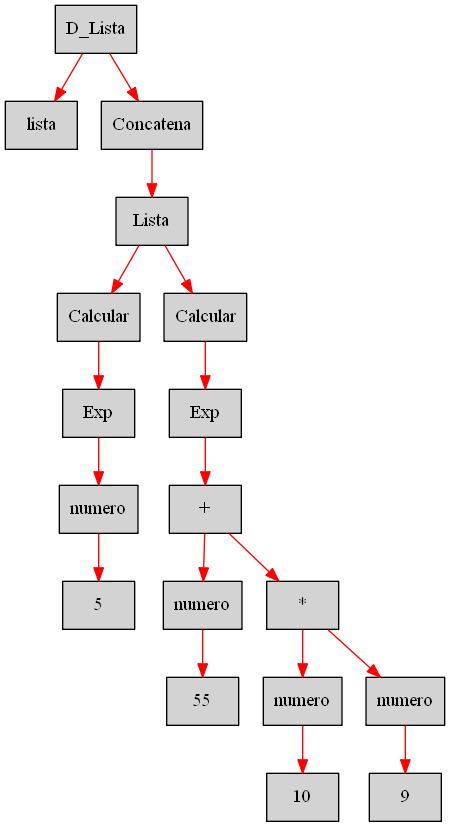
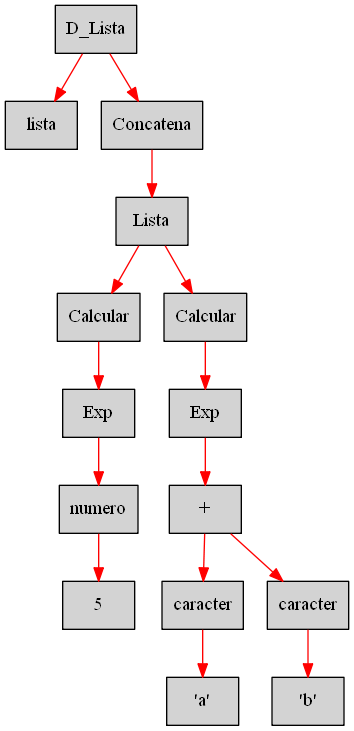
15 Marzo 2017 -- 02:23

diff --git a/src/Interprete/ExpresionHaskell.java b/src/Interprete/ExpresionHaskell.java
@@ -14,7 +14,121 @@ import Ast.Nodo;
 public class ExpresionHaskell {
     
     public Object Expresion(Nodo raiz){
-        
+        if(raiz.hijos.size()==1){
+            Nodo exp = raiz.hijos.get(0);
+            switch(raiz.valor.toString()){
+                
+                case "Exp":
+                    Valor ob1 = (Valor)Expresion(exp);
+                    return ob1;
+                
+                case "Calcular":
+                    Valor ob2 = (Valor)Expresion(exp);
+                    return ob2;
+                    
+                case "Decc":
+                break;
+                
+                case "Indice":
+                    break;
+
+                case "Length":
+                    break;
+
+                case "LlamaFunc":
+                    break;
+
+                case "Max":
+                    break;
+
+                case "Min":
+                    break;
+
+                case "Product":
+                    break;
+
+                case "Succ":
+                    break;
+
+                case "Sum":
+                    break;
+                    
+                case "numero":
+                    Valor v = new Valor(raiz.hijos.get(0).valor.toString(),"numero");
+                    return v;
+                    
+                case "cadena":
+                    Valor v1 = new Valor(raiz.hijos.get(0).valor.toString(),"cadena");
+                    return v1;
+                    
+                case "id":
+                    Valor v2 = new Valor(raiz.hijos.get(0).valor.toString(),"id");
+                    return v2;
+                    
+                case "caracter":
+                    Valor v3 = new Valor(raiz.hijos.get(0).valor.toString().replace("'", ""),"caracter");
+                    return v3;
+                    
+                case "porcentaje":
+                    break;
+                    
+                case "unario":
+                    break;
+                    
+            }
+        }else if(raiz.hijos.size()==2){
+            Valor izq;
+            Valor der;
+            Double resultado = 0.0;
+            switch(raiz.valor.toString()){
+                
+                case "+":
+                    izq = (Valor)Expresion(raiz.hijos.get(0)); 
+                    der = (Valor)Expresion(raiz.hijos.get(1));
+                    if(izq!=null || der != null){
+                        if(izq.tipo.equals(der.tipo)){
+                            if(izq.tipo.equals("numero")){
+                                Double num1 = (Double)izq.valor;
+                                Double num2 = (Double)der.valor;
+                                resultado = num1+num2;
+                                Valor v = new Valor(resultado,"numero");
+                                return v;
+                            }
+                            else if(izq.tipo.equals("caracter")){
+                                Object o = izq.valor.toString().codePointAt(0);
+                                Object m = der.valor.toString().codePointAt(0);
+                                Double num1 = new Double(o.toString());
+                                Double num2 = new Double(m.toString());
+                                resultado = num1+num2;
+                                Valor v = new Valor(resultado,"numero");
+                                return v;
+                            }
+                        }
+                    }
+                case "-":
+                    
+                    
+                case "*":
+                    
+                    
+                case "/":
+                    
+                    
+                case "mod":
+                    
+                    
+                case "sqrt":
+                    
+                    //resultado = Math.pow(der,1/izq);
+                   
+                    
+                case "pot":
+                   
+                    //resultado = Math.pow(izq,der);
+                    
+                    
+            }
+        }
         return null;
     }
 }

diff --git a/src/FunPropias/FuncionesPropiasHaskell.java b/src/FunPropias/FuncionesPropiasHaskell.java
@@ -15,7 +15,22 @@ import Ast.Nodo;
 
 public class FuncionesPropiasHaskell {
    
+    static Asc asc = new Asc();
+    static Calcular calcular = new Calcular();
     static Concatena concatena= new Concatena();
+    static Decc decc = new Decc();
+    static Desc desc = new Desc();
+    static Impr impr = new Impr();
+    static Indice indice = new Indice();
+    static Length length = new Length();
+    static LlamaFuncion llamaF = new LlamaFuncion();
+    static Max max = new Max();
+    static Min min = new Min();
+    static Par par = new Par();
+    static Product product = new Product();
+    static Revers revers = new Revers();
+    static Succ succ = new Succ();
+    static Sum sum = new Sum();
     
     public Object Recorrer(Nodo raiz){
         switch(raiz.valor.toString()){
@@ -27,8 +42,8 @@ public class FuncionesPropiasHaskell {
                 break;
                 
             case "Concatena":
-                Object val = concatena.Recorrer(raiz.hijos.get(0));
-                return val;
+                Object obj3 = concatena.Recorrer(raiz.hijos.get(0));
+                return obj3;
                 
             case "Decc":
                 break;

diff --git a/src/Simbolos/RecorreHaskell.java b/src/Simbolos/RecorreHaskell.java
@@ -63,15 +63,7 @@ public class RecorreHaskell {
                             
                             
                             
-                            /*else if(raiz.hijos.get(1).hijos.get(0).valor.toString()=="Lista"){
-                                else if(raiz.hijos.get(1).hijos.get(0).hijos.get(0).valor.toString()=="Calcular"){
-                                  for(Nodo c: raiz.hijos.get(1).hijos.get(0).hijos){
-                                        //aqui tengo que llevar la lista de caracteres
-                                        //exp.Expresion(c);
-                                        
-                                    }
-                                }
-                            }
+                            /*
                             else if(raiz.hijos.get(1).hijos.get(0).valor.toString()=="2Niveles"){
                                 
                             }*/

diff --git a/src/FunPropias/Concatena.java b/src/FunPropias/Concatena.java
@@ -7,6 +7,7 @@ package FunPropias;
 
 import Ast.Nodo;
 import Interprete.ExpresionHaskell;
+import Interprete.Valor;
 import java.util.ArrayList;
 
 /**
@@ -38,8 +39,8 @@ public class Concatena {
             ArrayList<Object> cadena = new ArrayList();
             
             for(Nodo nodo: raiz.hijos){
-                Object valor = (Object)exp.Expresion(nodo);
-                cadena.add(valor);
+                Valor valor = (Valor)exp.Expresion(nodo);
+                cadena.add(valor.valor.toString());
             }
             return cadena;
         }

diff --git a/src/Interprete/Valor.java b/src/Interprete/Valor.java
@@ -1,0 +1,21 @@
+/*
+ * To change this license header, choose License Headers in Project Properties.
+ * To change this template file, choose Tools | Templates
+ * and open the template in the editor.
+ */
+package Interprete;
+
+/**
+ *
+ * @author MishaPks
+ */
+public class Valor {
+    public Object valor;
+    public String tipo;
+    
+    public Valor(Object valor, String tipo){
+        this.valor = valor;
+        this.tipo = tipo;
+    }
+    
+}
